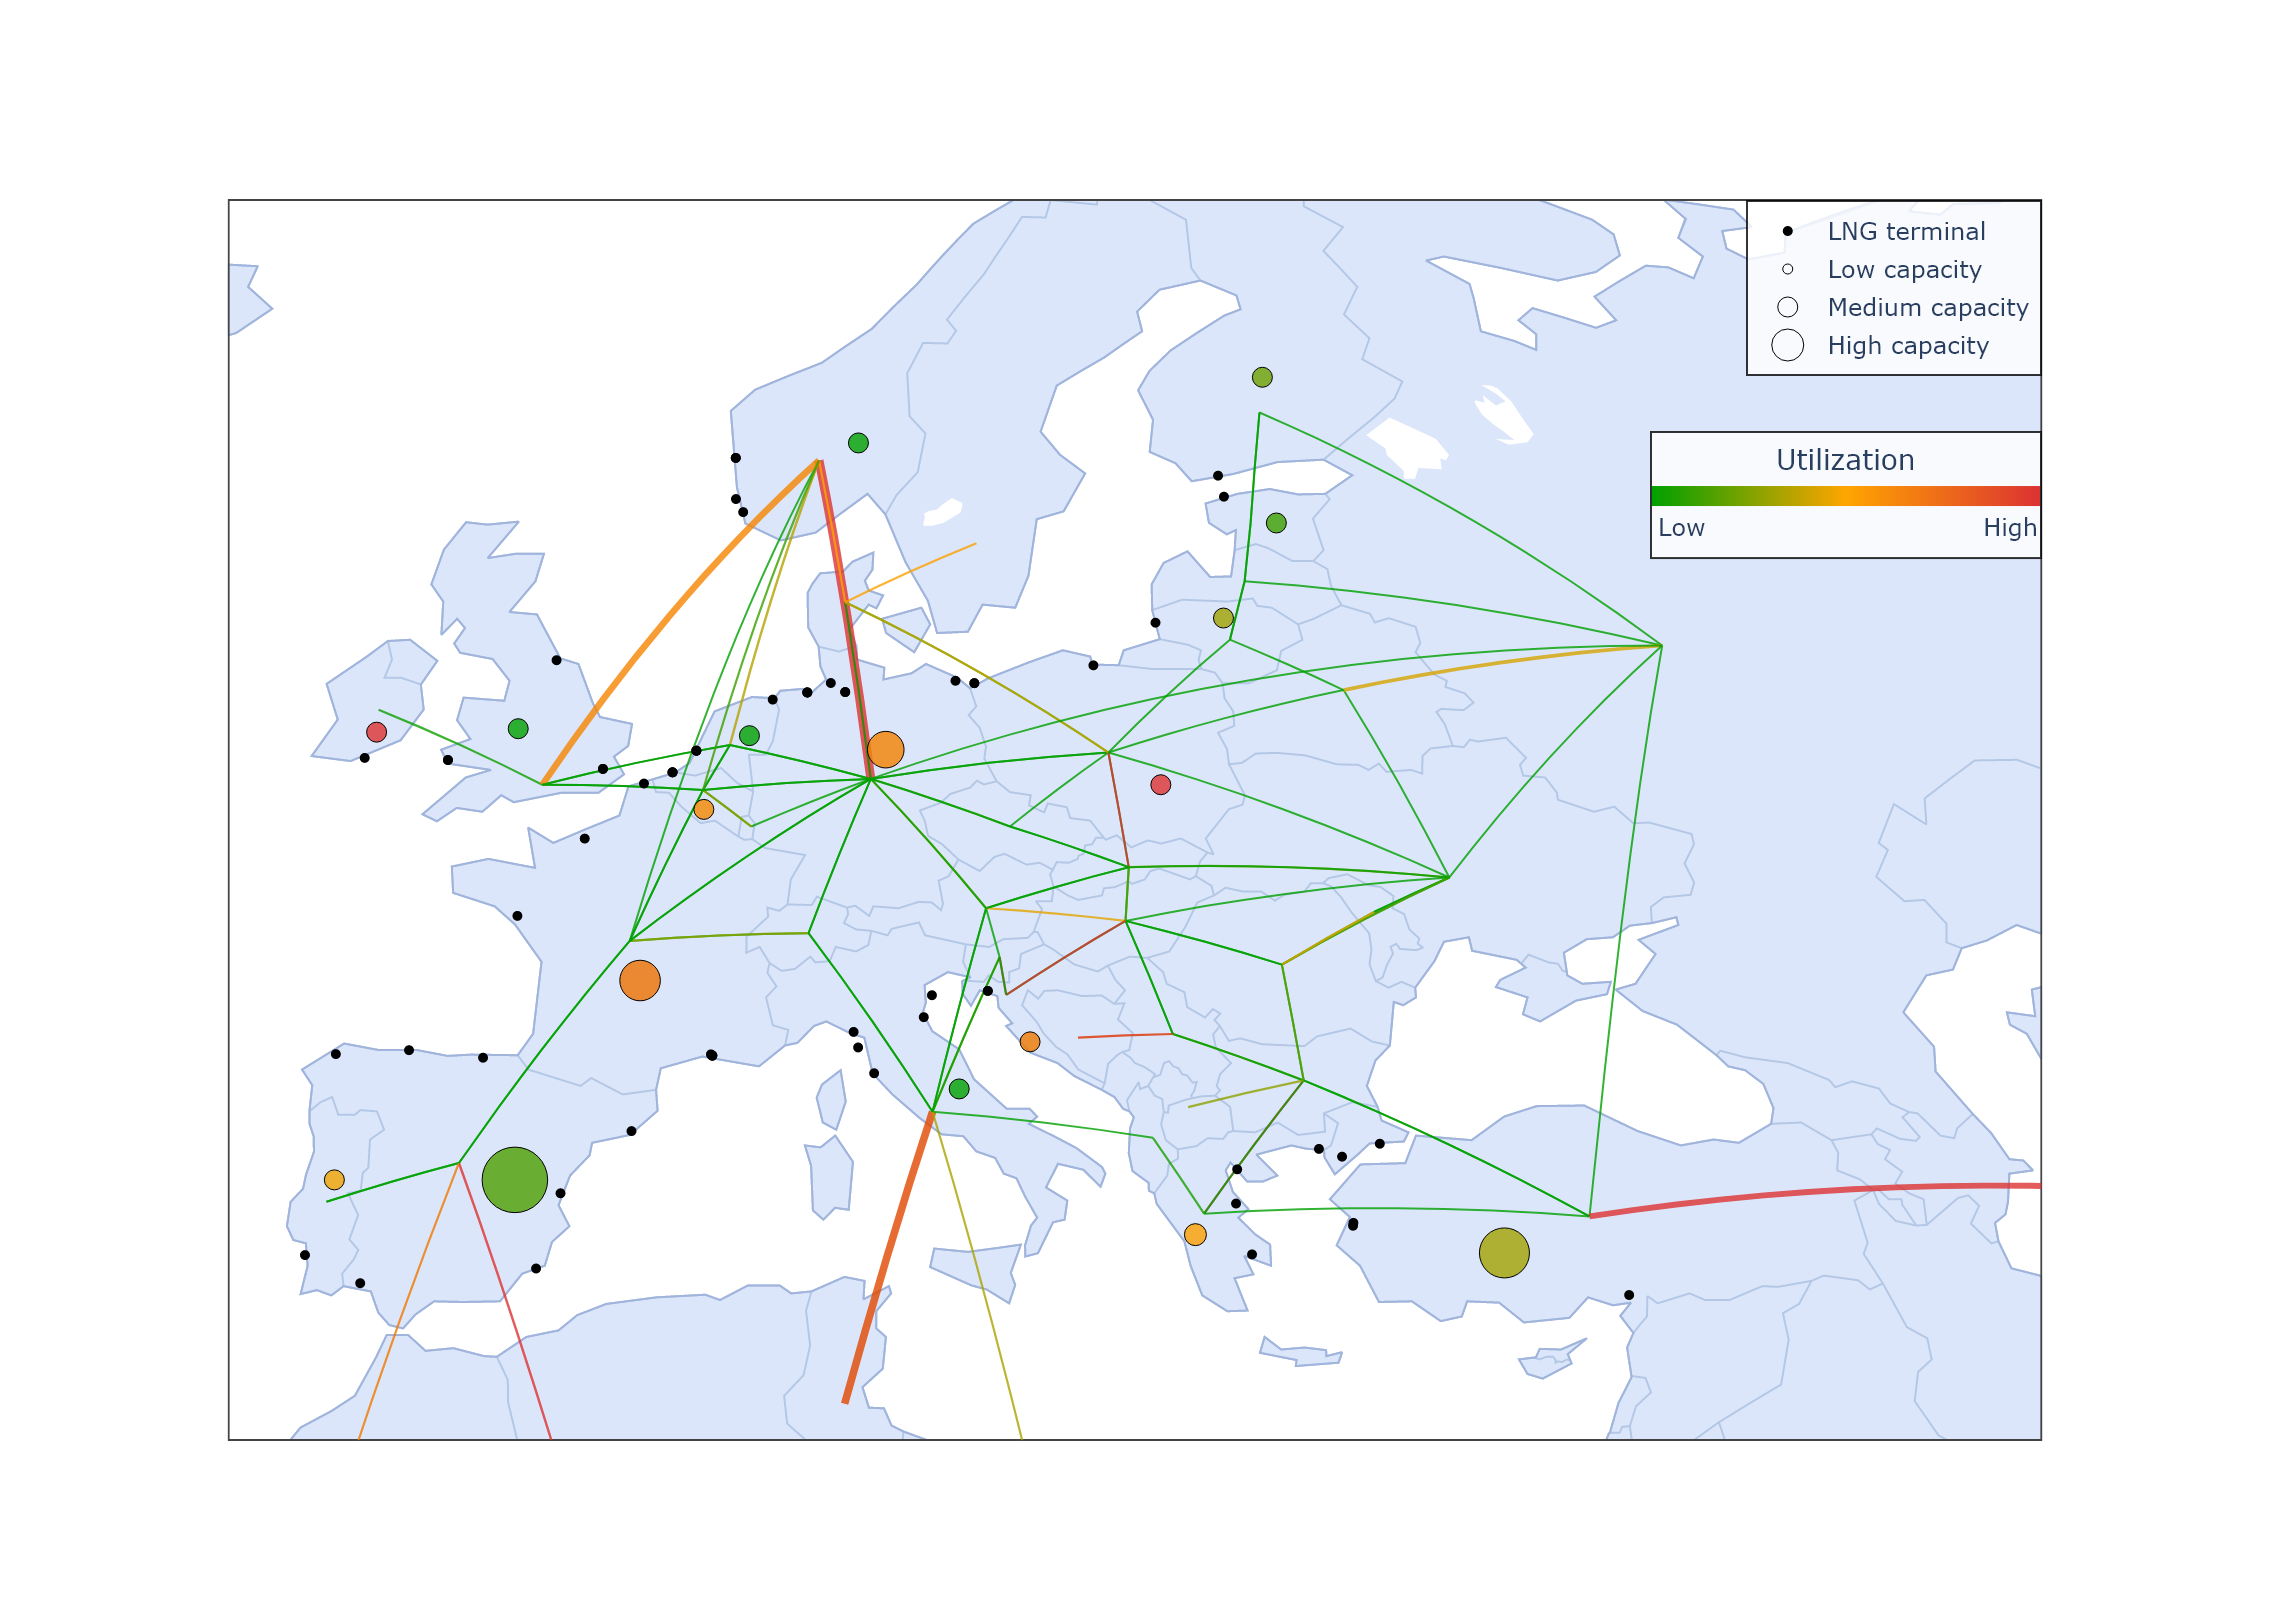
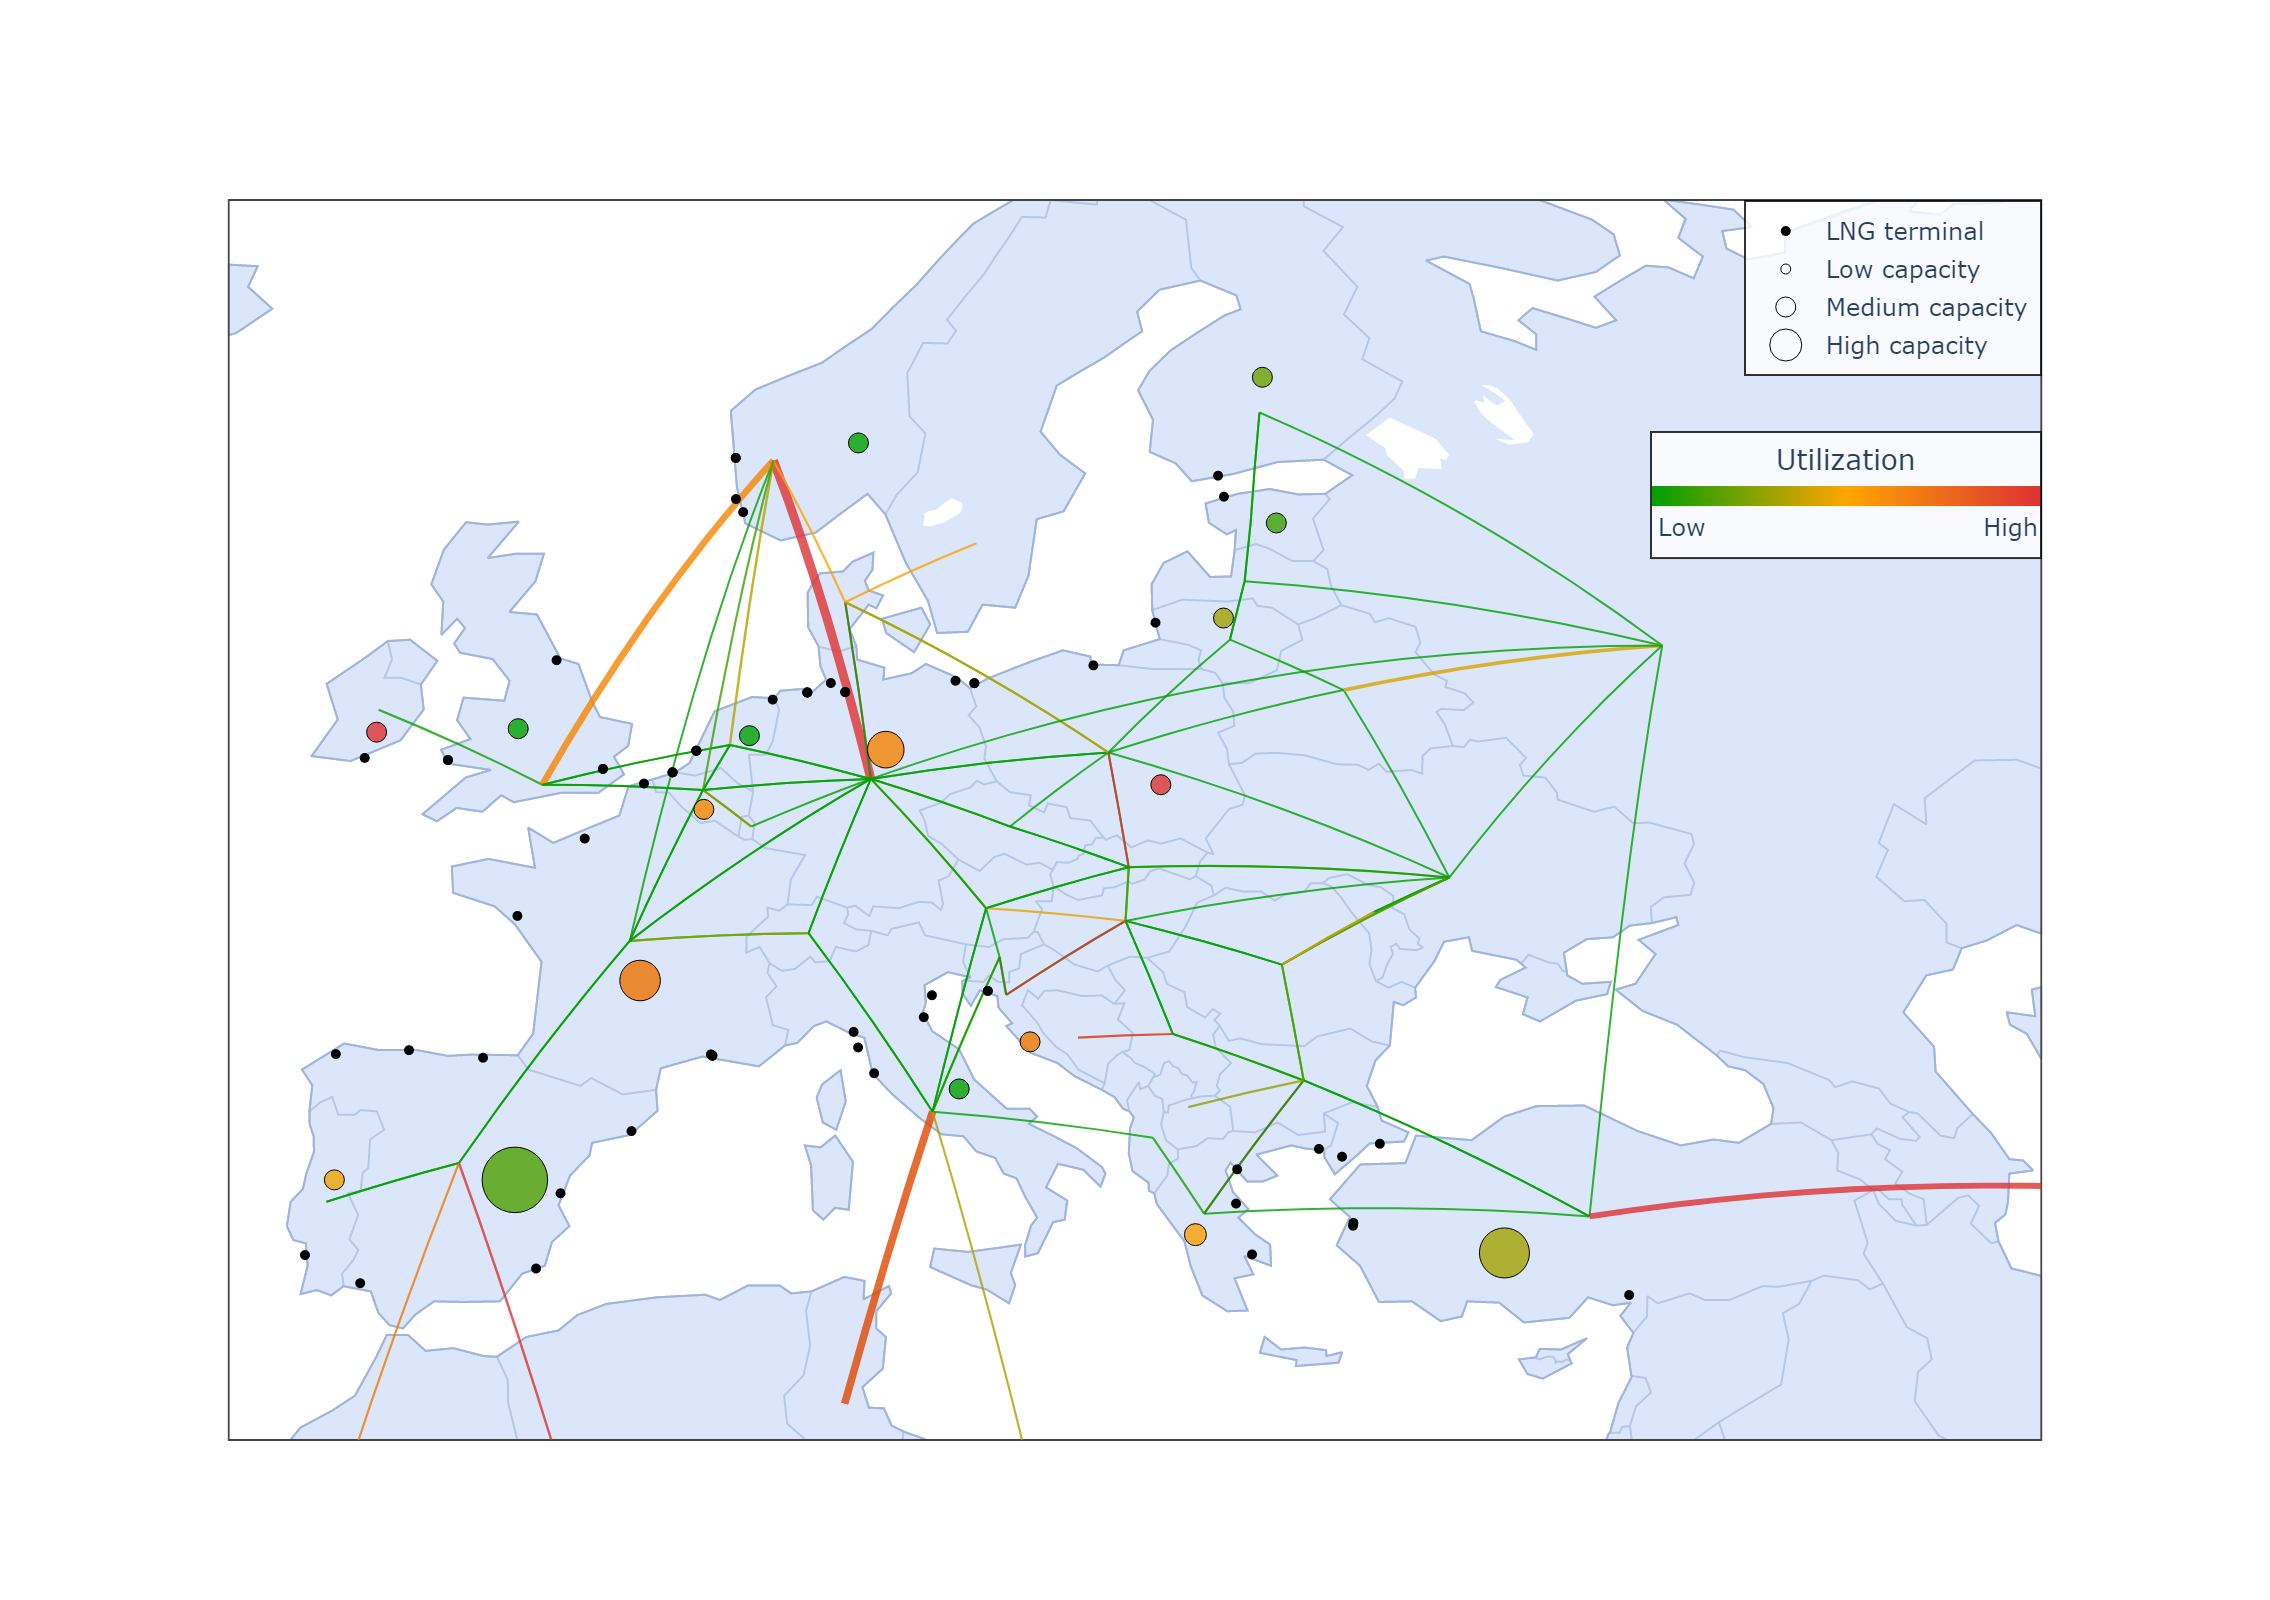
Update on norway coordinates

Changed region(s): [[0.2775, 0.2812, 0.4009, 0.4688], [0.8018, 0.125, 0.8943, 0.2188], [0.2467, 0.4062, 0.2775, 0.4688]]

diff --git a/00_code_base/08_output_preparation/plot_visualization.py b/00_code_base/08_output_preparation/plot_visualization.py
@@ -6,13 +6,13 @@ import matplotlib.pyplot as plt
 import plotly.graph_objects as go
 from plotly.subplots import make_subplots
 
-os.chdir(r"C:\Users\flv.eco\OneDrive - CBS - Copenhagen Business School\Documents\03_LNG_Cap\hydrogen_grid\00_code_base\08_output_preparation")
+# os.chdir(r"C:\Users\flv.eco\OneDrive - CBS - Copenhagen Business School\Documents\03_LNG_Cap\hydrogen_grid\00_code_base\08_output_preparation")
 from output_visualization_functions import *
 from LNG_external_imports_functions import *
 from year_difference_functions import *
 
-base_path =r"C:\Users\flv.eco\OneDrive - CBS - Copenhagen Business School\Documents\03_LNG_Cap\hydrogen_grid"
-#base_path = r"C:\Users\mar.eco\OneDrive - CBS - Copenhagen Business School\Desktop\hydrogen_grid"
+# base_path =r"C:\Users\flv.eco\OneDrive - CBS - Copenhagen Business School\Documents\03_LNG_Cap\hydrogen_grid"
+base_path = r"C:\Users\mar.eco\OneDrive - CBS - Copenhagen Business School\Desktop\hydrogen_grid"
 #
 
 # Import this for save funcroin to work
@@ -22,8 +22,8 @@ file_name_no_invest = "outputs_IAEE_2025_run_2035_SP"
 title_no_invest = "Cross-border NG flows in Stated Policies Scenario in 2035"
 
 save_flow_invest = False
-file_name_invest = "outputs_IAEE_2025_run_2024_inv"
-title_invest = "Cross-border NG flows with investment in 2024"
+file_name_invest = "outputs_IAEE_2025_run_2024_plus_NO_reduced"
+title_invest = "Cross-border NG flows with supply of Norway reduced"
 
 output_path_no_invest = os.path.join(base_path, "02_plots", "Flow_Results", file_name_no_invest)
 output_path_invest = os.path.join(base_path, "02_plots", "Flow_Results", file_name_invest)
@@ -228,4 +228,4 @@ file_cost_difference_2024 = os.path.join(data_path, "cost_shares_differences_to_
 file_cost_difference_2035 = os.path.join(data_path, "cost_shares_differences_to_2035_SP.xlsx")
 
 
-# plot_cost_difference(file_cost_difference_2035, full_name, scenario, base_path, True)
+plot_cost_difference(file_cost_difference_2035, full_name, scenario, base_path, False)

diff --git a/00_code_base/08_output_preparation/output_visualization_functions.py b/00_code_base/08_output_preparation/output_visualization_functions.py
@@ -153,7 +153,7 @@ COUNTRY_COORDINATES = {
     'MK': (41.9981, 21.4254),
     'MT': (35.9375, 14.3754),
     'NL': (52.1326, 5.2913),
-    'NO': (60.4720, 8.4689),
+    'NO': (60.4720, 6.7),
     'PL': (51.9194, 19.1451),
     'PT': (39.3999, -8.2245),
     'RO': (45.9432, 24.9668),
